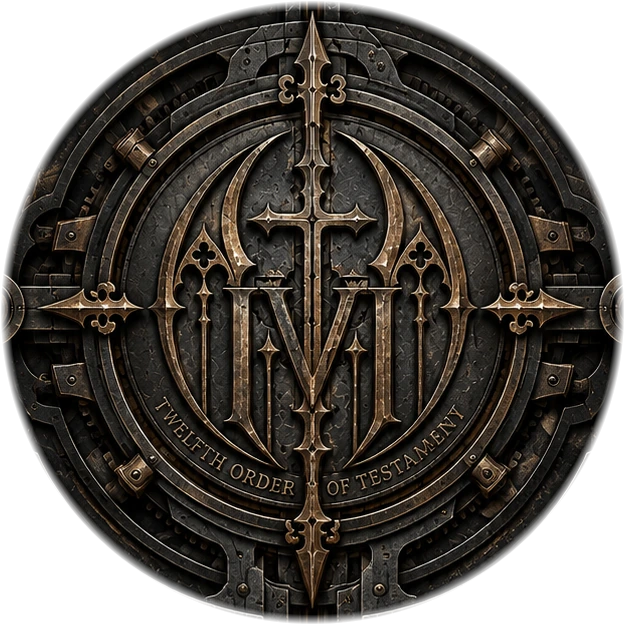
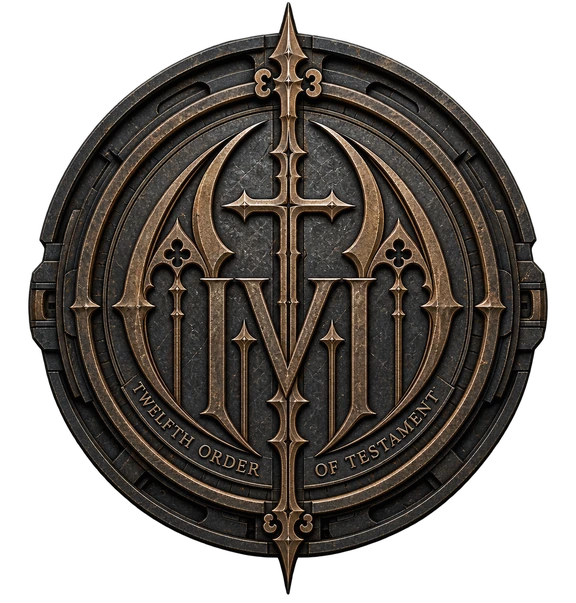
feat(story): 換上 Ray 畫的門與紋章；紋章不位移、跟左扇一起退場 ver -330
A. 紋章圓心不動（拿掉 translateY），只 scale(1.11) rotate(180deg)；
   開門時與左半扇走同一個 px 位移（同一個剛體）。
   ⚠ 不能各自寫 %：% 相對自己的寬度，兩者寬度不同會脫節。
   ⚠ 位移量取「左扇自己的寬」與「放大後紋章右緣」的大者 ——
     紋章比半扇門寬，只按門寬走的話門走光了紋章還留在縫裡（實測停在 x=133）。
     修正後右緣收在 x=−4。

B. 換上 Ray 的分件：門的凹槽不再是程式合成的，是畫出來的。
   ⚠ 三個檔各自是各自的畫布尺寸，位置是對位算出來的
     （tools/kerberos_cut.py align，CREST_BOX=(136,80,576,603) score 0.173）。
   ⚠ 箭對不了 —— 太細長，在滿是浮雕的門上相關性收斂到雜訊，四支箭仍由舊圖切。

還缺：卯釘那一張沒收到；「沒有箭的紋章」；門的音效。

diff --git a/modules/story.js b/modules/story.js
@@ -512,14 +512,15 @@ function fireOneShot(line){
      由下往上升（clip 同時打開到全畫面）→ 撞頂震動 → 四箭彈開 →
      紋章浮起旋轉 180° → 門由中縫拉開，縫裡露出的**就是戰鬥畫面**。
 
-   ⚠ 素材是 tools/kerberos_cut.py 由 `resources/background/Kerberos.png` 切出來的。
-     來源是一張合成好的平面圖（不透明、沒有圖層），門上的凹槽是**合成的**。
-     KERB_META 的數字由那支腳本印出來，**改圖要重跑腳本再把數字貼回來**。
+   ⚠ 門與紋章是 **Ray 畫的分件**（ver -330 換上）：門本身就已經把紋章挖掉，
+     不再是程式合成的凹槽。四支箭暫時仍由最早那張合成圖切 —— Ray 的 arm.png
+     是自己的畫布尺寸，沒有對位資訊（見 tools/kerberos_cut.py 的說明）。
+   ⚠ KERB_META 的數字由 tools/kerberos_cut.py 印出來，**改圖要重跑腳本再貼回來**。
    ⚠ 四支箭飛出去的是**複製品**，圓盤上的箭不會消失 —— 它們不是獨立零件
      （上下兩支是同一支十字架的兩端），挖掉會把紋章弄壞。理由記在那支腳本裡。 */
 const KERB_DIR='resources/vfx/';
 const KERB_META={ w:853, h:1844,
-  crest:{ x:0.13365, y:0.03850, w:0.73154, h:0.33894 },
+  crest:{ x:0.15944, y:0.04338, w:0.67526, h:0.32701 },
   arms:{ n:{x:0.45721,y:0.04989,w:0.08675,h:0.08677},
          s:{x:0.45721,y:0.29067,w:0.08675,h:0.08677},
          w:{x:0.20633,y:0.17679,w:0.16178,h:0.05531},
@@ -546,6 +547,17 @@ function layoutKerberos(){
   dr.style.width=Wd+'px'; dr.style.height=Hd+'px';
   dr.style.left=((W-Wd)/2)+'px'; dr.style.top=top+'px';
   kb.style.setProperty('--kerb-rise', Math.max(0,top)+'px');
+  /* 開門時「左半扇＋紋章」這個剛體要走多遠：兩者取大的 ——
+       ① 左扇自己出畫面：半扇寬 ×1.04
+       ② 紋章的右緣也要出畫面：紋章右緣在螢幕上的 x
+     ⚠ 用同一個 px 值餵給兩者，不能各自寫 %：% 是相對**自己**的寬度，
+       兩者寬度不同就會走不同距離、當場脫節。 */
+  /* ⚠ 要算**放大之後**的右緣：紋章在 lift 那一拍會 scale(1.11)（見 style.css），
+     照原尺寸算會短一截，門都走光了紋章還露一角在縫邊。1.14 是 1.11 再留一點餘裕。 */
+  const cW = KERB_META.crest.w*Wd;
+  const cCx = (KERB_META.crest.x + KERB_META.crest.w/2)*Wd + (W-Wd)/2;
+  const crestRightX = cCx + cW/2*1.14;
+  kb.style.setProperty('--kerb-open-x', Math.max(Wd/2*1.04, crestRightX)+'px');
   kb.style.setProperty('--kerb-door', 'url("'+KERB_DIR+'kerberos_door.webp")');
   const put=(el,b)=>{ if(!el) return;
     el.style.left=(b.x*Wd)+'px'; el.style.top=(b.y*Hd)+'px'; el.style.width=(b.w*Wd)+'px'; };

diff --git a/style.css b/style.css
@@ -1211,14 +1211,23 @@
     transition:transform .9s cubic-bezier(.7,0,.3,1);}
   .kerb-half.l{left:0;background-position:left top;}
   .kerb-half.r{right:0;background-position:right top;}
-  #kerb.open .kerb-half.l{transform:translateX(-104%);}
+  /* ⚠ 左半扇與紋章走**同一個 px 位移**（--kerb-open-x）—— 它們是同一個剛體：
+     紋章是嵌在門上的，門往左走它就跟著走。位移量取「左扇自己的寬」與
+     「紋章右緣到畫面左緣的距離」的大者 —— 紋章比半扇門寬，只按門寬走的話
+     門都出畫面了紋章還留在縫裡。右半扇沒東西掛著，照自己的寬走就好。 */
+  #kerb.open .kerb-half.l{transform:translateX(calc(var(--kerb-open-x) * -1));}
   #kerb.open .kerb-half.r{transform:translateX(104%);}
   /* 紋章圓盤：浮起＋旋轉。⚠ transform-origin 用預設的正中 —— 圖是以圓盤為中心裁的。 */
-  #kerbCrest{position:absolute;transform:translateY(0) scale(1) rotate(0deg);
-    transition:transform .9s cubic-bezier(.34,1.2,.5,1),filter .5s ease,opacity .5s ease;}
-  #kerb.lift #kerbCrest{transform:translateY(-9%) scale(1.11) rotate(180deg);
+  /* 紋章圓盤：**圓心不動**，只放大＋旋轉（Ray 指定：「圓盤不要位移」）。
+     ⚠ 開門時它跟著**左半扇**一起退場 —— 位移量是左扇的實際位移（門寬的一半 ×104%），
+       所以用 JS 算好的 --kerb-open-x（px），不能寫 % ：% 是相對**圓盤自己**的寬度，
+       與門的一半不同，兩者會走不同距離、脫節。 */
+  #kerbCrest{position:absolute;transform:scale(1) rotate(0deg);
+    transition:transform .9s cubic-bezier(.34,1.2,.5,1),filter .5s ease;}
+  #kerb.lift #kerbCrest{transform:scale(1.11) rotate(180deg);
     filter:drop-shadow(0 0 26px rgba(201,162,39,.6)) brightness(1.12);}
-  #kerb.open #kerbCrest{opacity:0;transform:translateY(-14%) scale(1.5) rotate(180deg);}
+  #kerb.open #kerbCrest{transform:translateX(calc(var(--kerb-open-x) * -1)) scale(1.11) rotate(180deg);
+    transition:transform .9s cubic-bezier(.7,0,.3,1);}
   /* 四支箭：由紋章的四個尖端往外彈出去再淡掉。
      ⚠ 飛出去的是**複製品**，圓盤上的箭不會消失 —— 那四支箭不是獨立零件
        （上下兩支是同一支十字架的兩端），挖掉會把紋章弄壞。詳見 tools/kerberos_cut.py。 */

diff --git a/config.js b/config.js
@@ -16,7 +16,7 @@ import { ART } from './script/speakers.js';
 
 /* 版本號：顯示於診斷 HUD（首頁連點團徽 5 下開啟），每次部署遞增尾碼——
  *  用來確認手機（尤其 iOS 主畫面 App 的頑固快取）實際跑到的是哪一版。 */
-export const VERSION = 'ver 2026.08.23-329';
+export const VERSION = 'ver 2026.08.23-330';
 
 export const GAME_CONFIG = {
 

diff --git a/tools/kerberos_cut.py b/tools/kerberos_cut.py
@@ -1,38 +1,43 @@
 #!/usr/bin/env python3
-"""Kerberos.png（門）→ 開門演出用的分件素材。
+"""Kerberos 之門 → 開門演出用的分件素材。
 
-⚠ 來源是**一張合成好的平面圖**：853×1844、不透明、沒有圖層。紋章與四支箭都是
-  「畫死在門上」的，所以這裡做的是**切割＋補洞**，補出來的凹槽是合成的，不是美術畫的。
-  哪天拿到分層檔，直接換掉輸出檔即可，座標常數不用動。
+素材來源（`resources/_originals/kerberos/`，不入版控）：
+  door.png    Ray 畫的門，**紋章已挖掉**（853×1844，不透明）
+  crest.png   Ray 去背的紋章圓盤（1226×1283，含 alpha）
+  arm.png     Ray 去背的箭（1214×1295，含 alpha）
+  Kerberos.png（在 ../background/）＝最早那張「紋章還在門上」的合成圖，
+              只拿來當**對位基準**（用它算 crest 貼在門上的位置與大小），不輸出。
+
+⚠⚠ Ray 的三個檔**各自是各自的畫布尺寸**，不是同一張門的座標系 ——
+   所以位置與縮放是**對位算出來的**（見 CREST_BOX，由 align 模式重算）。
+   要一勞永逸的話請 Ray 把每一件都輸出成**與門同尺寸（853×1844）的透明圖**，
+   那樣全部貼 (0,0) 就對，不必再猜。
 
 輸出（resources/vfx/）：
-  kerberos_door.webp    門（紋章挖掉、補成凹槽）——開門時左右各半用 background-position 切
-  kerberos_crest.webp   紋章圓盤（四支箭已挖掉補暗）——浮起＋旋轉 180°
-  kerberos_arm_{n,e,s,w}.webp  四支箭 —— 向外彈開
+  kerberos_door.webp / kerberos_crest.webp / kerberos_arm_{n,e,s,w}.webp
 
-幾何常數由 tools/ 目錄下的網格圖量出（見 HANDOFF）。改圖要重量。
+用法：  python3 tools/kerberos_cut.py          # 輸出素材
+       python3 tools/kerberos_cut.py align    # 重算 crest 在門上的框
 """
-from PIL import Image, ImageFilter, ImageDraw
-import numpy as np, os, json
+from PIL import Image, ImageFilter
+import numpy as np, os, sys, json
 
-# ⚠ 原圖放 _originals（不入版控，同專案慣例）——遊戲載的是下面切出來的 webp。
-#   Ray 手上有原圖；要重切就把它放回這個路徑再跑。
-SRC = 'resources/_originals/background/Kerberos.png'
-OUT = 'resources/vfx'
-CX, CY = 426, 383          # 紋章中心
-R_DISC = 302               # 圓盤外緣（羽化到 R_DISC+8）
-FEATHER = 10
-ARMS = {                   # 四支箭的框（左,上,右,下）
-    'n': (390,  92, 464, 252),
-    's': (390, 536, 464, 696),
-    'w': (176, 326, 314, 428),
-    'e': (538, 326, 676, 428),
-}
+SRC   = 'resources/_originals/kerberos'
+REF   = 'resources/_originals/background/Kerberos.png'   # 對位基準（紋章還在門上）
+OUT   = 'resources/vfx'
+DOOR_W, DOOR_H = 853, 1844
+
+# 紋章貼在門上的框（門像素）。由 align 模式算出來的：score 0.173。
+CREST_BOX = (136, 80, 576, 603)          # x, y, w, h
+
+# 四支箭：由原圖裁出來的框（門像素）。⚠ Ray 的 arm.png 目前**沒有對位資訊**
+#   （見上方的警告），所以這四片還是從原圖切的。等 Ray 給同尺寸的圖就換掉。
+ARMS = { 'n': (390,  92, 464, 252), 's': (390, 536, 464, 696),
+         'w': (176, 326, 314, 428), 'e': (538, 326, 676, 428) }
 
 def bronze_alpha(rgb):
-    """銅色遮罩：R 明顯高於 B 的就是金屬件，暗石材是背景。
-    ⚠ 這是**顏色**判定不是形狀判定 —— 箭上的暗部會被挖掉一點，
-      所以再做一次膨脹＋模糊把輪廓補回來。"""
+    """銅色遮罩：R 明顯高於 B 的是金屬件，暗石材是背景。
+    ⚠ 顏色判定不是形狀判定 —— 暗部會被挖掉一點，再膨脹＋模糊把輪廓補回來。"""
     a = rgb.astype(np.int16)
     warm = (a[:,:,0] - a[:,:,2]).clip(0, None)
     lum  = a.mean(axis=2)
@@ -41,63 +46,55 @@ def bronze_alpha(rgb):
     im = im.filter(ImageFilter.MaxFilter(5)).filter(ImageFilter.GaussianBlur(1.6))
     return np.asarray(im).astype(np.float32)/255.0
 
-def radial_mask(w, h, cx, cy, r, feather):
-    yy, xx = np.mgrid[0:h, 0:w]
-    d = np.sqrt((xx-cx)**2 + (yy-cy)**2)
-    return np.clip((r + feather - d) / feather, 0, 1)
+def align():
+    """把 crest.png 疊到 Kerberos.png 上，掃縮放與位移取邊緣相關性最大的那組。
+    ⚠ 只對 crest 有用：箭太細長，在滿是浮雕的門上會匹配到雜訊（實測收斂到最小尺寸）。"""
+    def edges(a):
+        a=a.astype(np.float32)
+        return np.abs(np.diff(a,axis=1,prepend=a[:,:1])) + np.abs(np.diff(a,axis=0,prepend=a[:1,:]))
+    ref = Image.open(REF).convert('L')
+    cr  = Image.open(f'{SRC}/crest.png').convert('RGBA')
+    K=4
+    O=np.asarray(ref.resize((ref.width//K, ref.height//K), Image.LANCZOS))
+    Oe=edges(O); Oe/=(Oe.max()+1e-6)
+    best=None
+    for w in range(480, 760, 8):
+        h=round(w*cr.height/cr.width)
+        c=cr.resize((max(1,w//K), max(1,h//K)), Image.LANCZOS)
+        ca=np.asarray(c); m=ca[:,:,3].astype(np.float32)/255.0
+        ce=edges(np.asarray(c.convert('L')))*m; ce/=(ce.max()+1e-6)
+        ch,cw=ce.shape
+        if ch>=Oe.shape[0] or cw>=Oe.shape[1]: continue
+        for y in range(0, min(260, Oe.shape[0]-ch), 2):
+            for x in range(0, Oe.shape[1]-cw, 2):
+                sc=float((Oe[y:y+ch,x:x+cw]*ce).sum()/(ce.sum()+1e-6))
+                if best is None or sc>best[0]: best=(sc,w,h,x*K,y*K)
+    print('CREST_BOX =', (best[3],best[4],best[1],best[2]), ' score', round(best[0],4))
 
 def main():
     os.makedirs(OUT, exist_ok=True)
-    src = Image.open(SRC).convert('RGB')
-    W, H = src.size
-    a = np.asarray(src)
+    # ── 門：Ray 已經把紋章挖掉了，直接轉檔（不再合成凹槽）──────────────
+    door = Image.open(f'{SRC}/door.png').convert('RGB')
+    assert door.size == (DOOR_W, DOOR_H), f'門的尺寸變了：{door.size}'
+    door.save(f'{OUT}/kerberos_door.webp', quality=88, method=6)
 
-    # 石材底色：由乾淨的一塊門面取樣（避開所有金屬件）
-    stone = a[1150:1350, 200:320].reshape(-1,3).mean(axis=0)
+    # ── 紋章：縮到門上的實際大小再輸出（前端就不必再換算）────────────
+    cx, cy, cw, ch = CREST_BOX
+    crest = Image.open(f'{SRC}/crest.png').convert('RGBA').resize((cw, ch), Image.LANCZOS)
+    crest.save(f'{OUT}/kerberos_crest.webp', quality=92, method=6)
 
-    # ── 1. 四支箭 ──────────────────────────────────────────────
+    # ── 四支箭：暫時仍由原圖切（Ray 的 arm.png 缺對位資訊）──────────
+    ref = np.asarray(Image.open(REF).convert('RGB'))
     for k,(x0,y0,x1,y1) in ARMS.items():
-        sub = a[y0:y1, x0:x1]
+        sub = ref[y0:y1, x0:x1]
         al  = bronze_alpha(sub)
-        rgba = np.dstack([sub, (al*255).astype(np.uint8)])
-        Image.fromarray(rgba, 'RGBA').save(f'{OUT}/kerberos_arm_{k}.webp', quality=92, method=6)
+        Image.fromarray(np.dstack([sub,(al*255).astype(np.uint8)]),'RGBA') \
+             .save(f'{OUT}/kerberos_arm_{k}.webp', quality=92, method=6)
 
-    # ── 2. 紋章圓盤（挖掉四支箭，補成暗凹槽）───────────────────
-    # ⚠ 取景要**含住所有箭的框**：下方那支箭比圓盤外緣還低 1px，只按半徑取會 off-by-one
-    d0 = min([CX-R_DISC-FEATHER] + [b[0] for b in ARMS.values()])
-    d1 = min([CY-R_DISC-FEATHER] + [b[1] for b in ARMS.values()])
-    d2 = max([CX+R_DISC+FEATHER] + [b[2] for b in ARMS.values()])
-    d3 = max([CY+R_DISC+FEATHER] + [b[3] for b in ARMS.values()])
-    disc = a[d1:d3, d0:d2].astype(np.float32)
-    dh, dw = disc.shape[:2]
-    # ⚠⚠ **圓盤不挖箭**（試過，失敗）。四支箭不是獨立零件 —— 上下那兩支是同一支
-    #   十字架的兩端，貫穿整個紋章；把它們挖掉會連十字一起斷，遮罩膨脹之後更是把
-    #   周圍的浮雕一起吃掉，看起來像紋章壞了而不是「箭飛出去了」。
-    #   改成：飛出去的是**複製品**（下面的 arm 檔），圓盤保持完整。
-    #   「彈開」讀起來是「從四個尖端射出去的東西」，不是「紋章少了四塊」——
-    #   而且圓盤完整，浮起旋轉那一段才成立。
-    dm = radial_mask(dw, dh, CX-d0, CY-d1, R_DISC, FEATHER)
-    Image.fromarray(np.dstack([disc.astype(np.uint8), (dm*255).astype(np.uint8)]), 'RGBA') \
-         .save(f'{OUT}/kerberos_crest.webp', quality=92, method=6)
+    print(json.dumps({'w':DOOR_W,'h':DOOR_H,'seam':0.506,
+        'crest':{'x':cx/DOOR_W,'y':cy/DOOR_H,'w':cw/DOOR_W,'h':ch/DOOR_H},
+        'arms':{k:{'x':b[0]/DOOR_W,'y':b[1]/DOOR_H,
+                   'w':(b[2]-b[0])/DOOR_W,'h':(b[3]-b[1])/DOOR_H} for k,b in ARMS.items()}}, indent=1))
 
-    # ── 3. 門（整個紋章挖掉，補成凹槽）─────────────────────────
-    door = a.astype(np.float32)
-    full = radial_mask(W, H, CX, CY, R_DISC, FEATHER)[:,:,None]
-    # 凹槽＝把該區壓暗並往石材色靠，再加一圈內陰影讓它有深度
-    socket = door*0.22 + stone*0.30
-    rim = np.clip((np.sqrt((np.mgrid[0:H,0:W][1]-CX)**2 + (np.mgrid[0:H,0:W][0]-CY)**2) - (R_DISC-26))/26.0, 0, 1)
-    socket = socket * (0.55 + 0.45*rim)[:,:,None]        # 邊緣稍亮＝內壁受光
-    door = door*(1-full) + socket*full
-    Image.fromarray(door.astype(np.uint8), 'RGB') \
-         .save(f'{OUT}/kerberos_door.webp', quality=88, method=6)
-
-    # ⚠ 給前端的是**每一件在門上的實際框**（左/上/寬/高，都是門圖的比例）——
-    #   不是「中心＋半徑」。圓盤的裁切框是「圓＋四支箭」的聯集，不等於圓的外接框，
-    #   用中心＋半徑去擺會偏。前端照這個框放，位置就一定對得回原圖。
-    meta = {'w':W, 'h':H, 'seam':0.506,
-            'crest': {'x':d0/W, 'y':d1/H, 'w':(d2-d0)/W, 'h':(d3-d1)/H},
-            'arms':  {k:{'x':b[0]/W, 'y':b[1]/H, 'w':(b[2]-b[0])/W, 'h':(b[3]-b[1])/H}
-                      for k,b in ARMS.items()}}
-    print(json.dumps(meta, indent=1))
-
-main()
+if __name__=='__main__':
+    align() if len(sys.argv)>1 and sys.argv[1]=='align' else main()

diff --git a/HANDOFF.md b/HANDOFF.md
@@ -924,3 +924,52 @@ Ray 指定的演出：下方盤面區換成 Kerberos 之門（紋章保持在面
 進戰鬥：升到頂蓋滿全畫面 → 四箭各自飛出畫面（實測 n 到 y=−114、s 到 395、
 e 到 339、w 到 −37，opacity 收到 0）→ 紋章 rotate(180deg) scale(1.11) 浮起 →
 門左右拉開 → 縫裡是**已經在跑的教學戰**（諾薇兒帶）。劇情層在門全開後才收掉。
+
+
+---
+
+# 交接 · `ver -330`（換上 Ray 畫的分件；紋章不位移、跟左扇一起退場）
+
+## A. 紋章：**圓心不動**，只放大＋旋轉；退場跟著左半扇
+
+Ray：「圓盤不要位移，保持圓心位置略為放大就好，然後跟著左側的門一起退出。」
+
+- `lift` 那一拍拿掉 `translateY`，只留 `scale(1.11) rotate(180deg)`。
+- `open` 那一拍它與左半扇走**同一個 px 位移**（`--kerb-open-x`）—— 它們是同一個剛體。
+  ⚠ 不能各自寫 `%`：`%` 是相對**自己**的寬度，紋章與半扇門寬度不同，
+    當場就會走不同距離、脫節。
+  ⚠ 位移量取兩者的大者：紋章比半扇門寬（67.5% vs 50%），只按門寬走的話
+    門都出畫面了紋章還留在縫裡（實測右緣停在 x=133）。
+  ⚠ 還要算**放大之後**的右緣（lift 會 scale 1.11），照原尺寸算會短一截。
+    現行係數 1.14＝1.11 再留一點餘裕。實測右緣收在 x=−4，與左扇一起乾淨出場。
+
+## B. 換上 Ray 畫的分件（門／紋章）
+
+Ray 給了三張透明圖，放 `resources/_originals/kerberos/`（不入版控）：
+
+    door.png    門，**紋章已經挖掉**（853×1844，不透明）
+    crest.png   去背的紋章圓盤（1226×1283）
+    arm.png     去背的箭（1214×1295）
+
+門與紋章已換上：**門的凹槽不再是程式合成的**，是畫出來的，質感差很多。
+`tools/kerberos_cut.py` 現在只做「轉檔＋縮到門上的實際大小」。
+
+### ⚠⚠ 三個檔**各自是各自的畫布尺寸**，不是同一張門的座標系
+
+所以位置與縮放是**對位算出來的**：拿最早那張「紋章還在門上」的合成圖當基準，
+掃縮放與位移取邊緣相關性最大的那組（`python3 tools/kerberos_cut.py align`）。
+紋章實測 `CREST_BOX = (136, 80, 576, 603)`，score 0.173，疊上去逐一吻合。
+
+⚠ **箭對不了**：它太細長（447×1256），在滿是浮雕的門上相關性會收斂到最小尺寸、
+  落在花押中間 —— 那是雜訊不是解。所以四支箭**目前仍由最早那張合成圖切**。
+
+### 要一勞永逸：請 Ray 把每一件都輸出成**與門同尺寸（853×1844）的透明圖**
+
+那樣全部貼 (0,0) 就對，不必再猜、也不必再跑對位。這是後續要素材時的標準格式。
+
+## C. 還缺的
+
+- **卯釘**：Ray 說做了，但只收到三個檔，沒有卯釘那一張。
+- **沒有箭的紋章**：要讓四支箭**真的離開圓盤**（而不是飛複製品）就需要這一張。
+  現行作法與理由見 ver -329 B 節。
+- **音效**：接點仍留在 `KERB_SFX`（thud/pop/spin/open），素材到了填路徑即可。
